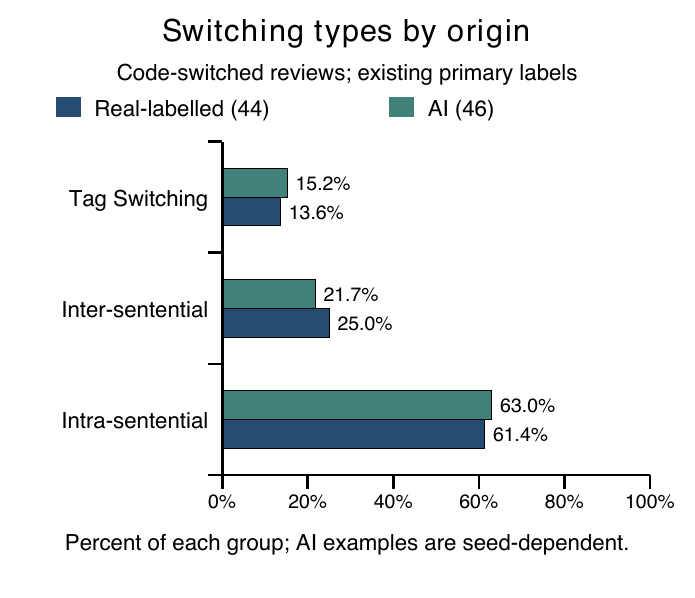
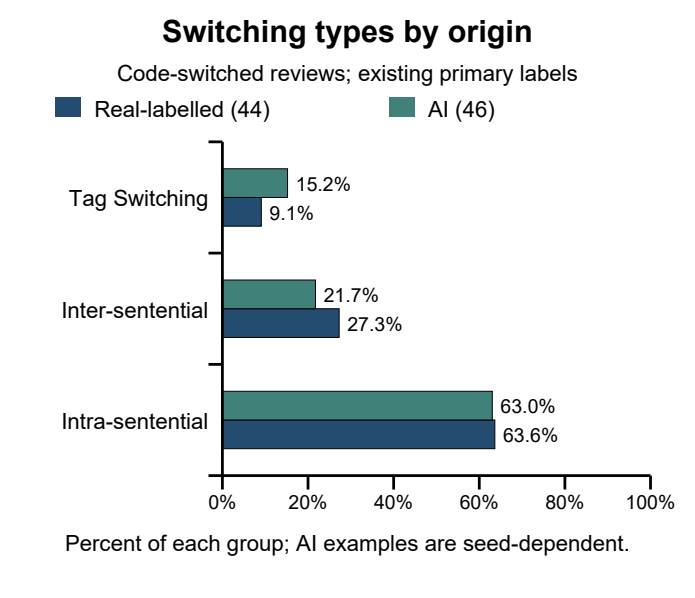
amendment

diff --git a/plot_results.py b/plot_results.py
@@ -68,10 +68,28 @@ def render_chart(output_dir):
     renderPDF.drawToFile(drawing, str(base.with_suffix('.pdf')))
     renderSVG.drawToFile(drawing, str(base.with_suffix('.svg')))
     converter = shutil.which('pdftoppm')
+    png_created = False
     if converter:
         subprocess.run([converter, '-r', '200', '-singlefile', '-png',
                         str(base.with_suffix('.pdf')), str(base)], check=True, capture_output=True)
-    print('Chart saved as PDF/SVG' + ('/PNG.' if converter else '; install Poppler for PNG export.'))
+        png_created = True
+    else:
+        try:
+            import pypdfium2
+        except ImportError:
+            pass
+        else:
+            with pypdfium2.PdfDocument(str(base.with_suffix('.pdf'))) as document:
+                page = document[0]
+                bitmap = page.render(scale=200 / 72)
+                try:
+                    bitmap.to_pil().save(base.with_suffix('.png'))
+                finally:
+                    bitmap.close()
+                    page.close()
+            png_created = True
+    print('Chart saved as PDF/SVG' + ('/PNG.' if png_created else
+          '; PNG was not refreshed. Install Poppler or pypdfium2 for PNG export.'))
 
 
 if __name__ == '__main__':

diff --git a/nlp_text_analysis.py b/nlp_text_analysis.py
@@ -105,14 +105,19 @@ def load_reviews(path):
 
 def review_warnings(reviews):
     issues = []
-    real_ids = {r["ReviewID"] for r in reviews if r["DataOrigin"] == REAL}
+    real_reviews = {r["ReviewID"]: r for r in reviews if r["DataOrigin"] == REAL}
     urls = {}
     for r in reviews:
         def warn(kind, detail):
             issues.append(dict(zip(ISSUE_FIELDS, [r["ReviewID"], "review", kind, detail])))
         if r["DataOrigin"] == AI:
-            if r["SourceURL_Seed"] not in real_ids:
+            seed = real_reviews.get(r["SourceURL_Seed"])
+            if seed is None:
                 warn("Missing seed", "Seed does not identify a retained real-labelled review")
+            elif date.fromisoformat(r["ReviewDate"]) < date.fromisoformat(seed["ReviewDate"]):
+                warn("Generation predates seed", f"Recorded generation date {r['ReviewDate']} precedes "
+                     f"seed {seed['ReviewID']} publication {seed['ReviewDate']}; verify generation history "
+                     "or regenerate from a verified seed. Do not invent replacement dates.")
         else:
             source = r["SourceURL_Seed"]
             parsed = urlparse(source)

diff --git a/tests/test_pipeline.py b/tests/test_pipeline.py
@@ -70,6 +70,19 @@ class PipelineTests(unittest.TestCase):
         self.assertEqual(particles['ObservedVariants'], 'kan')
         self.assertEqual(particles['ReviewCount'], 1)
 
+    def test_generation_chronology_flags_without_changing_records(self):
+        seed = record(ReviewDate='2026-07-04')
+        generated = record(ReviewID='REV-AI-001', DataOrigin=pipeline.AI,
+                           SourceURL_Seed='REV-001', ReviewDate='2026-03-24')
+        before = generated.copy()
+        issues = pipeline.review_warnings([seed, generated])
+        self.assertEqual([(i['ReviewID'], i['Issue']) for i in issues],
+                         [('REV-AI-001', 'Generation predates seed')])
+        self.assertEqual(generated, before)
+        for valid_date in ('2026-07-04', '2026-07-05'):
+            generated['ReviewDate'] = valid_date
+            self.assertEqual(pipeline.review_warnings([seed, generated]), [])
+
     def test_report_comparison_uses_mixed_reviews_and_full_denominators(self):
         reviews = [record(ReviewText='Repeat order. Nice taste.'),
                    record(ReviewID='REV-002', ReviewText='Repeat order. Repeat order.',

diff --git a/README.md b/README.md
@@ -64,14 +64,14 @@ python3 nlp_text_analysis.py
 python3 plot_results.py
 ```
 
-`plot_results.py` reads current `switching_distribution.csv` and writes `switching_by_origin.pdf` and `.svg`. If Poppler's `pdftoppm` is available on PATH, it also creates `.png` for Google Docs. The figure compares current primary-label percentages among code-switched reviews only; it does not infer annotation accuracy or independent synthetic behaviour. The plotted percentages are calculated from counts and group sizes. Use `--output-dir` on both scripts for custom output folders.
+`plot_results.py` reads current `switching_distribution.csv` and writes `switching_by_origin.pdf` and `.svg`. If Poppler's `pdftoppm` is available on PATH, or the optional `pypdfium2` package is installed, it also creates `.png` for Google Docs. Otherwise it warns that PNG was not refreshed. The figure compares current primary-label percentages among code-switched reviews only; it does not infer annotation accuracy or independent synthetic behaviour. The plotted percentages are calculated from counts and group sizes. Use `--output-dir` on both scripts for custom output folders.
 
 ## Manual checks before reporting
 
 - Verify the real-labelled texts verbatim against the original sources; preserve collection evidence. Shared source URLs and discovery links are flagged but do not prove fabrication or invalidity.
-- Agree on borrowing versus switching rules, treatment of multilingual reviews, and whether a review can have several switching types. Recheck REV-005, REV-006, REV-011 and similar cases. Two annotators should review disagreements and record resolutions.
+- The primary-type convention is intra-sentential if present, otherwise inter-sentential, otherwise tag switching. Targeted corrections to REV-006, REV-011 and REV-057 are recorded in `annotation_changes.csv`; this is not a complete independent annotation study. Review the rest of the corpus, including ambiguous borrowing such as REV-005, using consistent rules. Two annotators should review disagreements and record resolutions.
 - The main Excel workbook is synchronized with all 140 reviews in `corpus_data.csv`, including the eight replacement records. The backup workbook retains its earlier contents.
-- Verify model names, dates, generation prompts and seed provenance. Automatic checks only confirm that seed IDs exist.
+- Verify model names, dates, generation prompts and seed provenance. Automatic checks flag missing seeds and generation dates earlier than seed publication. They do not establish authenticity. Follow [SUBMISSION_CHECKLIST.md](SUBMISSION_CHECKLIST.md) for unresolved evidence and report checks.
 - The main workbook's XML encoding declarations have been corrected. Its two review sheets match the current CSV; the analysis pipeline continues to read `corpus_data.csv`.
 - Manually curated lexicon glosses, POS and polarity are interpretations, not automatic predictions. Inspect their corpus examples; spicy wording can express praise or criticism.
 
@@ -79,4 +79,4 @@ python3 plot_results.py
 
 The lecturer clarified that at least one NLP technique is required. This project implements KWIC and bigrams. The report is maintained in [Google Docs](https://docs.google.com/document/d/1OpfJmWQtox4oaWvXqSSHQtA-ZumVILknjAfxZOBs_Jg/edit); the submission requires Word and PDF in IEEE format, 3–6 pages excluding the cover, due 13 November 2026.
 
-See [ANALYSIS_GUIDE.md](ANALYSIS_GUIDE.md) for a proposed independent annotation workflow and a KWIC evidence-table preview. These are worked examples and proposed rules, not a completed two-annotator study. Existing corpus labels are unchanged. After any agreed annotation corrections, regenerate all outputs and update report counts. The supplied rubric's weights are inconsistent and need lecturer clarification.
+See [ANALYSIS_GUIDE.md](ANALYSIS_GUIDE.md) for the primary-label convention, a proposed independent annotation workflow and a KWIC evidence-table preview. Three targeted label corrections have been applied; independent agreement has not been measured. After further annotation corrections, regenerate all outputs and update report counts. The supplied rubric's weights are inconsistent and need lecturer clarification.

diff --git a/ANALYSIS_GUIDE.md b/ANALYSIS_GUIDE.md
@@ -1,6 +1,6 @@
 # Annotation and interpretation guide
 
-This is a proposed team procedure, not a completed annotation study. The pipeline continues to use the existing corpus labels. Adopting these rules may change the labels and report results; regenerate the outputs after agreed changes.
+The primary-label policy below is now used for targeted corrections to REV-006, REV-011 and REV-057, recorded in `annotation_changes.csv`. The rest of the corpus still needs consistent review. This is not a completed independent two-annotator study.
 
 ## Research question
 
@@ -13,7 +13,7 @@ The complete review is the counting unit. A review can contain several switching
 1. Two team members independently read the original full review, including punctuation. Ideally, hide the existing classification and the other annotator's decisions during this pass.
 2. Each records the language category, all observed switching types, exact supporting spans, and any uncertainty. Include primarily single-language and uncertain records in the review, not just the 90 currently labelled mixed.
 3. Compare independent decisions, discuss disagreements and record a final resolution. If a third team member adjudicates, record their reason as well.
-4. If retaining the existing single `CodeSwitchingType` field, agree on a primary-type policy before relabelling. One possible project policy is: choose intra-sentential if present, otherwise inter-sentential if present, otherwise tag switching. This is a proposed counting convention, not a linguistic law. Keep all observed types in the separate annotation log so the primary label does not hide them.
+4. For the single `CodeSwitchingType` field, use this project counting convention: choose intra-sentential if present, otherwise inter-sentential if present, otherwise tag switching. Reserve tag switching for reviews whose only identified alternation is a discourse tag. This precedence is not a linguistic law. Record all observed types and exact spans in the separate annotation log so the primary label does not hide them. Apply the same borrowing rules throughout the corpus.
 5. Preserve original labels in the log before changing the corpus. Never fill independent annotation columns with an automatic copy of existing labels. Do not claim two-annotator agreement until it has actually been measured.
 
 Suggested log columns: ReviewID, OriginalLanguage, OriginalSwitchingType, AnnotatorALanguage, AnnotatorATypes, AnnotatorAEvidence, AnnotatorBLanguage, AnnotatorBTypes, AnnotatorBEvidence, FinalLanguage, FinalPrimaryType, AllObservedTypes, ResolutionReason.
@@ -41,7 +41,7 @@ These contexts come from the current KWIC export. Interpretations below are work
 | REV-010 | KUAH | Hirup | panas-panas waktu hujan memang | The KWIC window is Malay; the preceding English sentence in FullText establishes the between-sentence alternation. |
 | REV-057 | SEDAP | Murah and | gila compared to Samyang | The sentence mixes English and Malay. The full review also contains `lah`; a single tag label does not capture every pattern. |
 | REV-023 | HANCUR | dalam keadaan elok tanpa | (empty) | `tanpa` negates damage. The full review switches between English and Malay sentences; the damage word alone is not negative sentiment. |
-| REV-006 | SEDAP | Pedas gila tapi | (empty) | Inspect FullText: Malay exclamation followed by English sentences. The existing intra-sentential label needs discussion rather than automatic acceptance. |
+| REV-006 | SEDAP | Pedas gila tapi | (empty) | FullText contains a Malay exclamation followed by English sentences. Its primary label has been corrected to inter-sentential. |
 
 For a report table, use a small selection with a clear reason (within-sentence, between-sentence, tag/multiple types, and a contextual pitfall). These are illustrative cases, not a random sample or an exhaustive functional analysis. Keep the discussion grounded in the exact spans rather than guessing a reviewer's motivation.
 

diff --git a/SUBMISSION_CHECKLIST.md b/SUBMISSION_CHECKLIST.md
@@ -1,0 +1,40 @@
+# Submission checks
+
+The analysis runs, but source evidence and the final report still need review. Check boxes only after the work is completed. The source-verification log records a targeted earlier check; it does not authenticate the entire corpus.
+
+## Source evidence
+
+- [ ] REV-061: obtain an original review or screenshot supporting the complete text. The previous source check found the English and Malay portions in separate reviews. If necessary, replace this record with one verified complete review and re-annotate it. Do not treat the current combined text as verified human code-switching.
+- [ ] REV-AI-016: confirm its actual generation date, model and prompt. Its recorded 2026-03-24 date precedes seed REV-018's 2026-07-04 publication. If history is unavailable, generate a replacement from the verified seed and record the actual new details.
+- [ ] REV-AI-059: resolve seed REV-061 first, then verify generation history or regenerate. Its recorded 2026-05-06 date precedes the seed's 2026-05-29 date.
+- [ ] Verify the seven records sharing the Google Maps URL: REV-004, REV-016, REV-028, REV-034, REV-040, REV-055, REV-068.
+- [ ] Locate original reviews behind Lemon8 discovery links for REV-019, REV-029, REV-057.
+- [ ] Verify remaining real-labelled records and AI model/prompt history. Shared URLs and discovery links are flags, not proof of invalidity.
+
+For each real record, retain the full original text, URL, available metadata and screenshot/export reference. Never invent missing ratings or dates. The current validator requires both; revise its policy deliberately if verified sources lack metadata. For each AI record, retain the seed ID, exact prompt/output, model used and actual generation date. Do not describe existing text as newly generated without generating it.
+
+## Annotation and regenerated results
+
+- [x] Apply targeted primary-label corrections to REV-006, REV-011 and REV-057, preserving original labels and reasons in `annotation_changes.csv`.
+- [ ] Apply the documented policy consistently to all reviews, including ambiguous borrowings and multiple switching types.
+- [ ] Complete independent annotation and resolution if claiming two-annotator agreement. Targeted corrections alone do not establish agreement.
+- [ ] After evidence or label changes, synchronize the CSV and main workbook, run the pipeline and tests, then regenerate the chart.
+
+```powershell
+python nlp_text_analysis.py
+python -m unittest discover -s tests -v
+python plot_results.py
+```
+
+## Final report
+
+- [ ] Update counts, tables, chart and examples from the final regenerated outputs.
+- [ ] Explain the review-level counting unit, cleaning, sampling, source evidence, AI generation and primary-label policy.
+- [ ] Interpret KWIC examples in full context. Distinguish bigrams within mixed reviews from actual cross-language boundaries. Describe Table IV phrases as selected illustrations.
+- [ ] Separate real-labelled and seed-dependent AI evidence. Do not infer reviewer motivations from counts alone or claim independent AI observations of human behaviour.
+- [ ] Include title/abstract, motivation/question, dataset scenario, related methods/literature, text exploration, findings, conclusion and references.
+- [ ] Connect relevant seminal and recent literature, cite methods/tools and support substantive claims with reliable sources.
+- [ ] Inspect final IEEE formatting and 3–6 pages excluding the cover. Export both Word and PDF for eLearn submission on 13 November 2026.
+- [ ] Confirm rubric weighting with the lecturer if a numerical self-score is needed; the supplied totals are inconsistent.
+
+The report is linked from README but has not been edited or verified here. Evidence-dependent corrections remain open; generated outputs are provisional while those issues remain.
